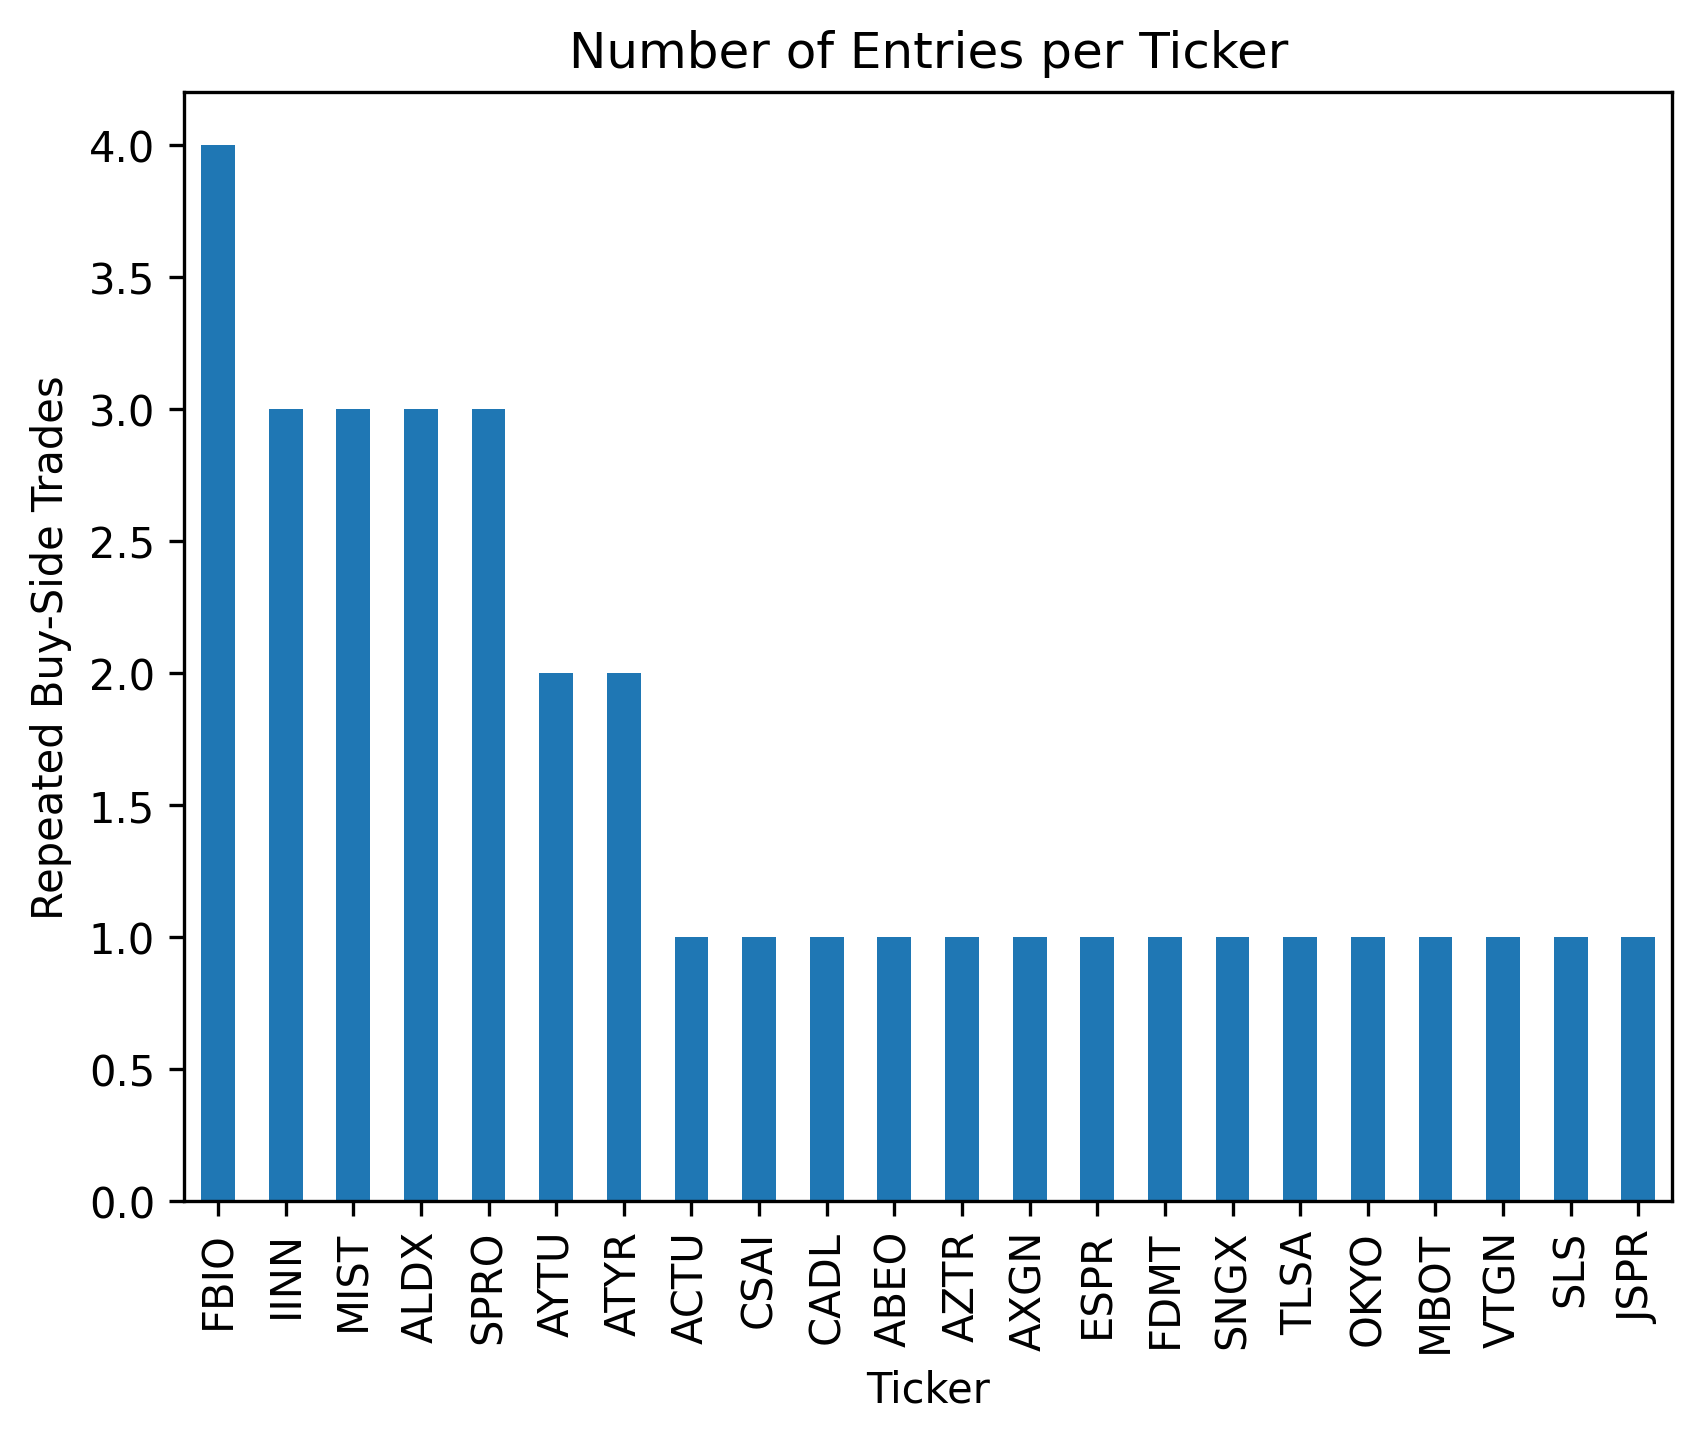
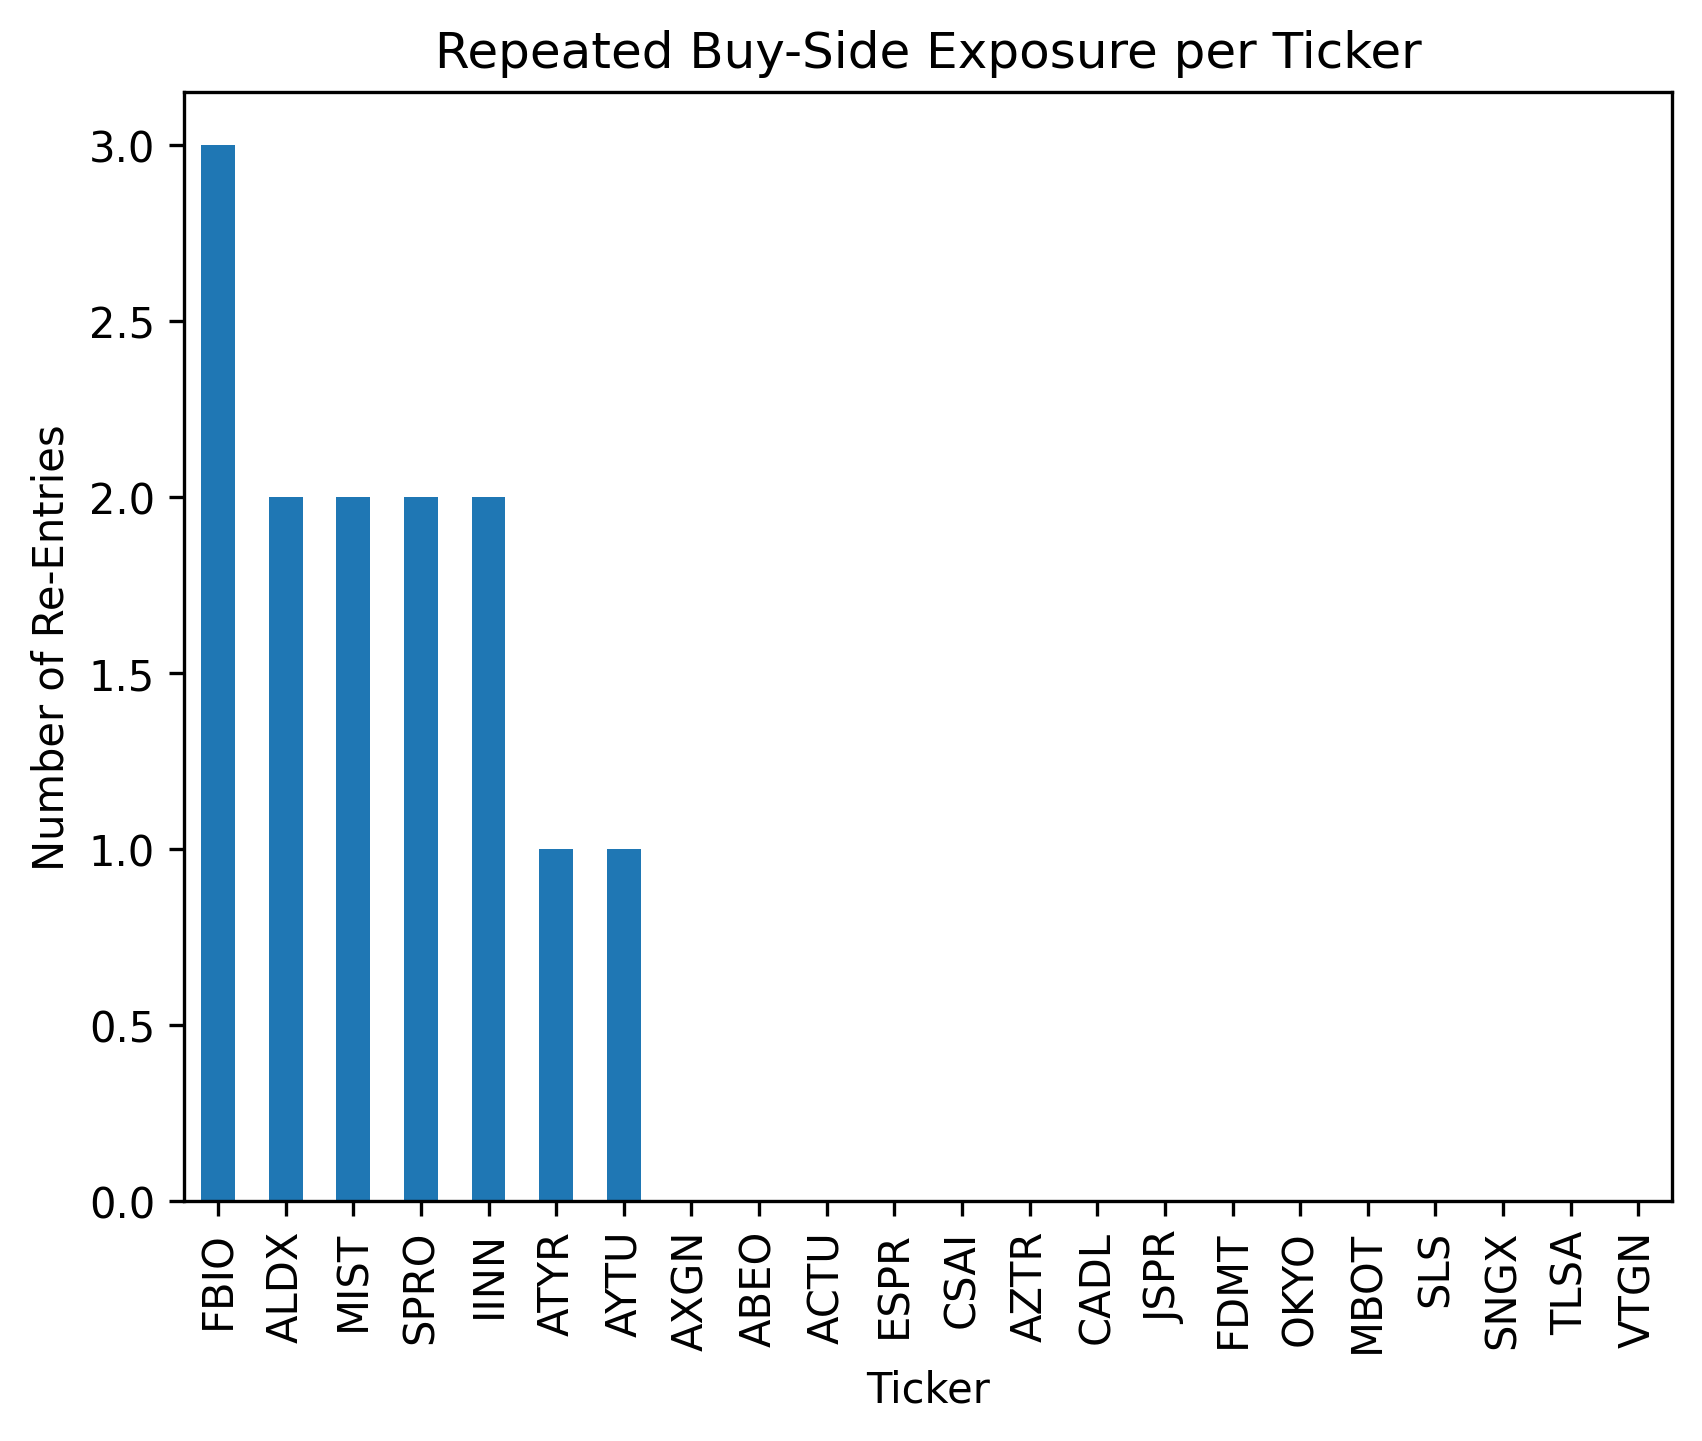
Properly count repeated buys

diff --git a/Scripts and CSV Files/graphs/repeated_ticker_exposure.py b/Scripts and CSV Files/graphs/repeated_ticker_exposure.py
@@ -2,23 +2,40 @@ import pandas as pd
 import matplotlib.pyplot as plt
 
 def plot_repeated_ticker_exposure(trades_df: pd.DataFrame):
-    entries = trades_df.dropna(subset=["Shares Bought"])
+    # Count buy-side entries per ticker
+    buy_entries = (
+        trades_df
+        .dropna(subset=["Shares Bought"])
+        .groupby("Ticker")
+        .size()
+    )
 
-    entry_counts = entries["Ticker"].value_counts()
+    # Convert to repeated buys (re-entries)
+    # 0 = bought once, >0 = re-entered
+    repeated_buys = buy_entries - 1
+    repeated_buys[repeated_buys < 0] = 0
+
+    # Sort for readability
+    repeated_buys = repeated_buys.sort_values(ascending=False)
 
     plt.figure()
-    entry_counts.plot(kind="bar")
-    plt.title("Number of Entries per Ticker")
-    plt.ylabel("Repeated Buy-Side Trades")
-    plt.savefig("Scripts and CSV Files/images/repeated_exposure.png", dpi=300, bbox_inches="tight")
+    repeated_buys.plot(kind="bar")
+    plt.title("Repeated Buy-Side Exposure per Ticker")
+    plt.ylabel("Number of Re-Entries")
+    plt.xlabel("Ticker")
+    plt.savefig(
+        "Scripts and CSV Files/images/repeated_exposure.png",
+        dpi=300,
+        bbox_inches="tight"
+    )
     plt.show()
 
-def load_data(trade_log_path: str, daily_updates_path: str):
-    trades = pd.read_csv(trade_log_path, parse_dates=["Date"])
-    daily = pd.read_csv(daily_updates_path, parse_dates=["Date"])
-    equity = daily[daily["Ticker"] == "TOTAL"].sort_values("Date")
-    return trades, daily, equity
 
+def load_data(trade_log_path: str, daily_updates_path: str): 
+    trades = pd.read_csv(trade_log_path, parse_dates=["Date"]) 
+    daily = pd.read_csv(daily_updates_path, parse_dates=["Date"]) 
+    equity = daily[daily["Ticker"] == "TOTAL"].sort_values("Date") 
+    return trades, daily, equity 
 
-trades, daily, equity = load_data("Scripts and CSV Files/Trade Log.csv", "Scripts and CSV Files/Daily Updates.csv",)
+trades, daily, equity = load_data("Scripts and CSV Files/Trade Log.csv", "Scripts and CSV Files/Daily Updates.csv",) 
 plot_repeated_ticker_exposure(trades)
